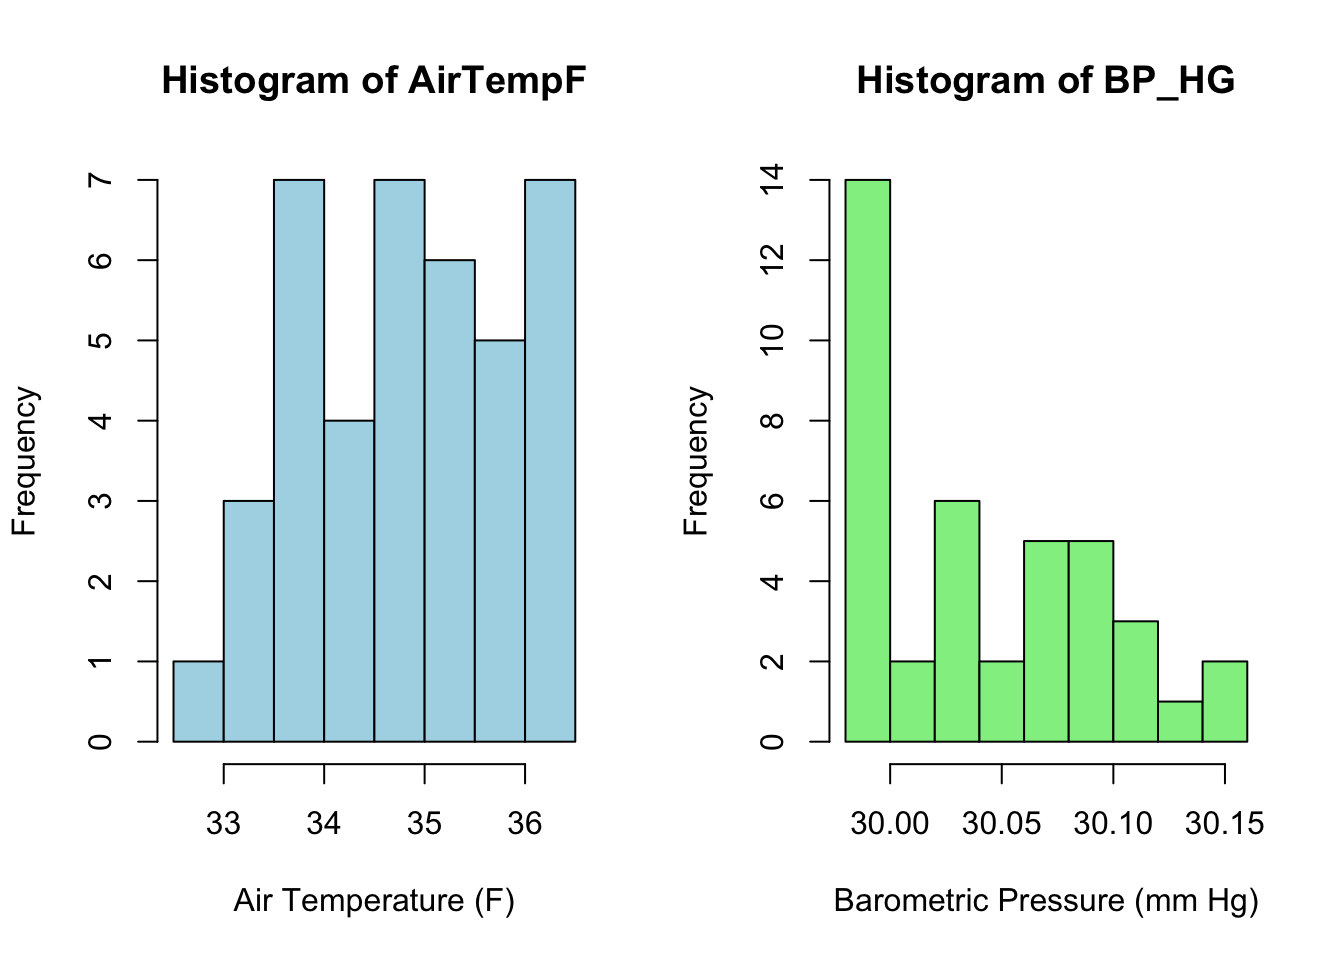
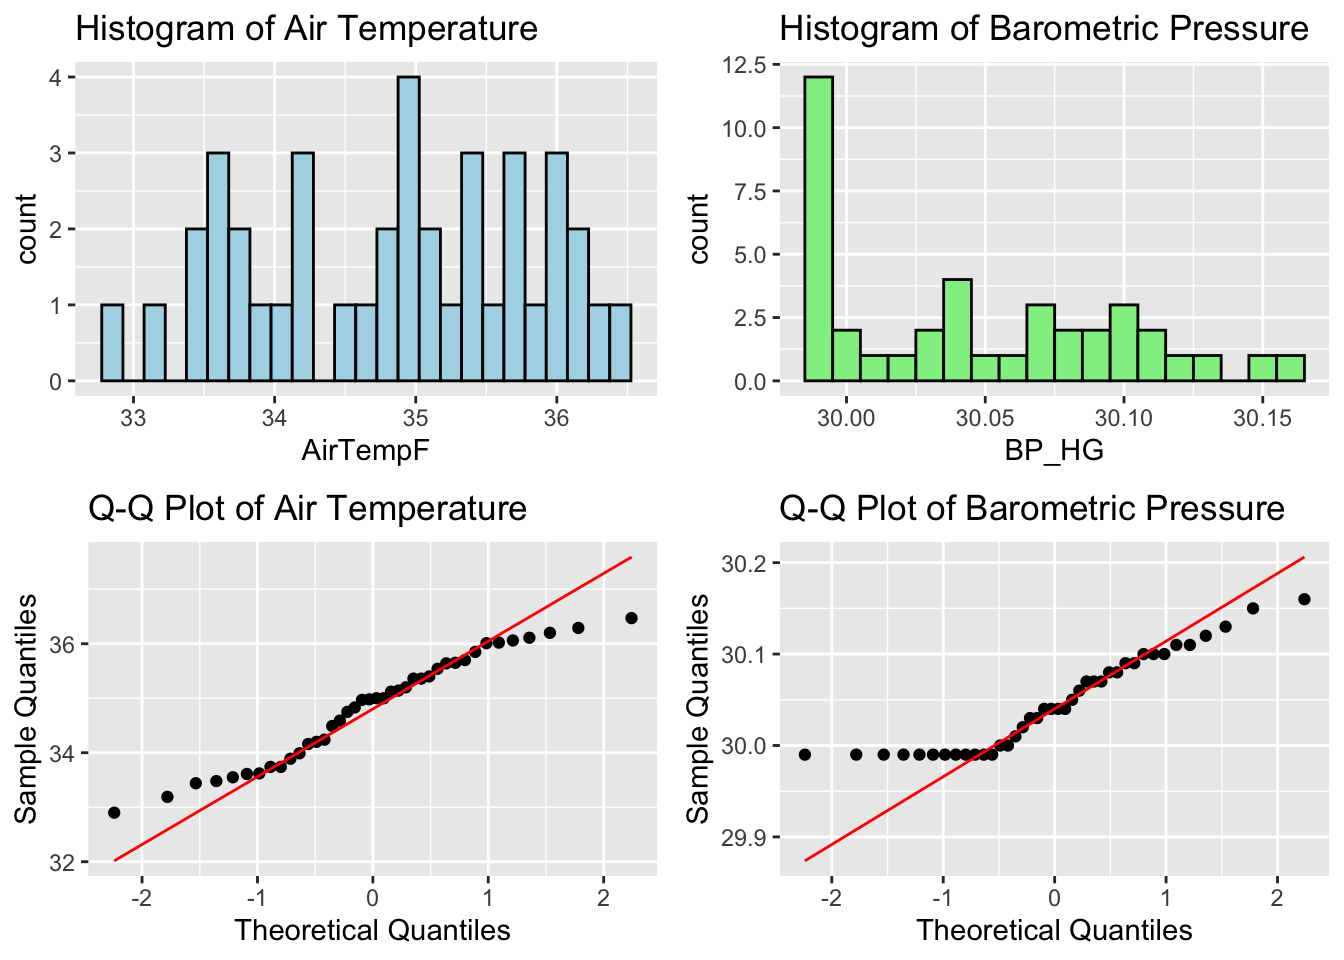
updated graph display corr

diff --git a/docs/Correlation_Assignment.html b/docs/Correlation_Assignment.html
@@ -206,9 +206,30 @@ sample estimates:
 6     33.4  30.0</code></pre>
 </div>
 <div class="sourceCode cell-code" id="cb8"><pre class="sourceCode r code-with-copy"><code class="sourceCode r"><span id="cb8-1"><a href="#cb8-1" aria-hidden="true" tabindex="-1"></a><span class="co"># Histograms for both variables</span></span>
-<span id="cb8-2"><a href="#cb8-2" aria-hidden="true" tabindex="-1"></a><span class="fu">par</span>(<span class="at">mfrow =</span> <span class="fu">c</span>(<span class="dv">1</span>, <span class="dv">2</span>))  <span class="co"># Set up a 1x2 plot grid</span></span>
-<span id="cb8-3"><a href="#cb8-3" aria-hidden="true" tabindex="-1"></a><span class="fu">hist</span>(rice_subset<span class="sc">$</span>AirTempF, <span class="at">main =</span> <span class="st">"Histogram of AirTempF"</span>, <span class="at">xlab =</span> <span class="st">"Air Temperature (F)"</span>, <span class="at">col =</span> <span class="st">"lightblue"</span>, <span class="at">border =</span> <span class="st">"black"</span>)</span>
-<span id="cb8-4"><a href="#cb8-4" aria-hidden="true" tabindex="-1"></a><span class="fu">hist</span>(rice_subset<span class="sc">$</span>BP_HG, <span class="at">main =</span> <span class="st">"Histogram of BP_HG"</span>, <span class="at">xlab =</span> <span class="st">"Barometric Pressure (mm Hg)"</span>, <span class="at">col =</span> <span class="st">"lightgreen"</span>, <span class="at">border =</span> <span class="st">"black"</span>)</span></code><button title="Copy to Clipboard" class="code-copy-button"><i class="bi"></i></button></pre></div>
+<span id="cb8-2"><a href="#cb8-2" aria-hidden="true" tabindex="-1"></a></span>
+<span id="cb8-3"><a href="#cb8-3" aria-hidden="true" tabindex="-1"></a>h1 <span class="ot">&lt;-</span> <span class="fu">ggplot</span>(rice_subset, <span class="fu">aes</span>(<span class="at">x =</span> AirTempF)) <span class="sc">+</span> </span>
+<span id="cb8-4"><a href="#cb8-4" aria-hidden="true" tabindex="-1"></a>  <span class="fu">geom_histogram</span>(<span class="at">binwidth =</span> <span class="fl">0.15</span>, <span class="at">fill =</span> <span class="st">"lightblue"</span>, <span class="at">color =</span> <span class="st">"black"</span>) <span class="sc">+</span></span>
+<span id="cb8-5"><a href="#cb8-5" aria-hidden="true" tabindex="-1"></a>  <span class="fu">ggtitle</span>(<span class="st">"Histogram of Air Temperature"</span>)</span>
+<span id="cb8-6"><a href="#cb8-6" aria-hidden="true" tabindex="-1"></a></span>
+<span id="cb8-7"><a href="#cb8-7" aria-hidden="true" tabindex="-1"></a>h2 <span class="ot">&lt;-</span> <span class="fu">ggplot</span>(rice_subset, <span class="fu">aes</span>(<span class="at">x =</span> BP_HG)) <span class="sc">+</span> </span>
+<span id="cb8-8"><a href="#cb8-8" aria-hidden="true" tabindex="-1"></a>  <span class="fu">geom_histogram</span>(<span class="at">binwidth =</span> <span class="fl">0.01</span>, <span class="at">fill =</span> <span class="st">"lightgreen"</span>, <span class="at">color =</span> <span class="st">"black"</span>) <span class="sc">+</span></span>
+<span id="cb8-9"><a href="#cb8-9" aria-hidden="true" tabindex="-1"></a>  <span class="fu">ggtitle</span>(<span class="st">"Histogram of Barometric Pressure"</span>)</span>
+<span id="cb8-10"><a href="#cb8-10" aria-hidden="true" tabindex="-1"></a></span>
+<span id="cb8-11"><a href="#cb8-11" aria-hidden="true" tabindex="-1"></a><span class="co"># Q-Q plot for AirTempF</span></span>
+<span id="cb8-12"><a href="#cb8-12" aria-hidden="true" tabindex="-1"></a>qq1 <span class="ot">&lt;-</span> <span class="fu">ggplot</span>(rice_subset, <span class="fu">aes</span>(<span class="at">sample =</span> AirTempF)) <span class="sc">+</span> </span>
+<span id="cb8-13"><a href="#cb8-13" aria-hidden="true" tabindex="-1"></a>  <span class="fu">stat_qq</span>() <span class="sc">+</span> </span>
+<span id="cb8-14"><a href="#cb8-14" aria-hidden="true" tabindex="-1"></a>  <span class="fu">stat_qq_line</span>(<span class="at">color =</span> <span class="st">"red"</span>) <span class="sc">+</span></span>
+<span id="cb8-15"><a href="#cb8-15" aria-hidden="true" tabindex="-1"></a>  <span class="fu">ggtitle</span>(<span class="st">"Q-Q Plot of Air Temperature"</span>) <span class="sc">+</span></span>
+<span id="cb8-16"><a href="#cb8-16" aria-hidden="true" tabindex="-1"></a>  <span class="fu">labs</span>(<span class="at">x =</span> <span class="st">"Theoretical Quantiles"</span>, <span class="at">y =</span> <span class="st">"Sample Quantiles"</span>)</span>
+<span id="cb8-17"><a href="#cb8-17" aria-hidden="true" tabindex="-1"></a></span>
+<span id="cb8-18"><a href="#cb8-18" aria-hidden="true" tabindex="-1"></a><span class="co"># Q-Q plot for BP_HG</span></span>
+<span id="cb8-19"><a href="#cb8-19" aria-hidden="true" tabindex="-1"></a>qq2 <span class="ot">&lt;-</span> <span class="fu">ggplot</span>(rice_subset, <span class="fu">aes</span>(<span class="at">sample =</span> BP_HG)) <span class="sc">+</span> </span>
+<span id="cb8-20"><a href="#cb8-20" aria-hidden="true" tabindex="-1"></a>  <span class="fu">stat_qq</span>() <span class="sc">+</span> </span>
+<span id="cb8-21"><a href="#cb8-21" aria-hidden="true" tabindex="-1"></a>  <span class="fu">stat_qq_line</span>(<span class="at">color =</span> <span class="st">"red"</span>) <span class="sc">+</span></span>
+<span id="cb8-22"><a href="#cb8-22" aria-hidden="true" tabindex="-1"></a>  <span class="fu">ggtitle</span>(<span class="st">"Q-Q Plot of Barometric Pressure"</span>) <span class="sc">+</span></span>
+<span id="cb8-23"><a href="#cb8-23" aria-hidden="true" tabindex="-1"></a>  <span class="fu">labs</span>(<span class="at">x =</span> <span class="st">"Theoretical Quantiles"</span>, <span class="at">y =</span> <span class="st">"Sample Quantiles"</span>)</span>
+<span id="cb8-24"><a href="#cb8-24" aria-hidden="true" tabindex="-1"></a></span>
+<span id="cb8-25"><a href="#cb8-25" aria-hidden="true" tabindex="-1"></a>gridExtra<span class="sc">::</span><span class="fu">grid.arrange</span>(h1, h2, qq1, qq2, <span class="at">ncol =</span> <span class="dv">2</span>)</span></code><button title="Copy to Clipboard" class="code-copy-button"><i class="bi"></i></button></pre></div>
 <div class="cell-output-display">
 <div>
 <figure class="figure">
@@ -216,29 +237,12 @@ sample estimates:
 </figure>
 </div>
 </div>
-<div class="sourceCode cell-code" id="cb9"><pre class="sourceCode r code-with-copy"><code class="sourceCode r"><span id="cb9-1"><a href="#cb9-1" aria-hidden="true" tabindex="-1"></a><span class="co"># Set up a 1x2 plot grid again for Q-Q plots</span></span>
-<span id="cb9-2"><a href="#cb9-2" aria-hidden="true" tabindex="-1"></a><span class="fu">par</span>(<span class="at">mfrow =</span> <span class="fu">c</span>(<span class="dv">1</span>, <span class="dv">2</span>))</span>
-<span id="cb9-3"><a href="#cb9-3" aria-hidden="true" tabindex="-1"></a></span>
-<span id="cb9-4"><a href="#cb9-4" aria-hidden="true" tabindex="-1"></a><span class="co"># Q-Q plot for AirTempF</span></span>
-<span id="cb9-5"><a href="#cb9-5" aria-hidden="true" tabindex="-1"></a><span class="fu">qqnorm</span>(rice_subset<span class="sc">$</span>AirTempF, <span class="at">main =</span> <span class="st">"Q-Q Plot of AirTempF"</span>)</span>
-<span id="cb9-6"><a href="#cb9-6" aria-hidden="true" tabindex="-1"></a><span class="fu">qqline</span>(rice_subset<span class="sc">$</span>AirTempF, <span class="at">col =</span> <span class="st">"red"</span>)</span>
-<span id="cb9-7"><a href="#cb9-7" aria-hidden="true" tabindex="-1"></a></span>
-<span id="cb9-8"><a href="#cb9-8" aria-hidden="true" tabindex="-1"></a><span class="co"># Q-Q plot for BP_HG</span></span>
-<span id="cb9-9"><a href="#cb9-9" aria-hidden="true" tabindex="-1"></a><span class="fu">qqnorm</span>(rice_subset<span class="sc">$</span>BP_HG, <span class="at">main =</span> <span class="st">"Q-Q Plot of BP_HG"</span>)</span>
-<span id="cb9-10"><a href="#cb9-10" aria-hidden="true" tabindex="-1"></a><span class="fu">qqline</span>(rice_subset<span class="sc">$</span>BP_HG, <span class="at">col =</span> <span class="st">"red"</span>)</span></code><button title="Copy to Clipboard" class="code-copy-button"><i class="bi"></i></button></pre></div>
-<div class="cell-output-display">
-<div>
-<figure class="figure">
-<p><img src="Correlation_Assignment_files/figure-html/unnamed-chunk-3-2.png" class="img-fluid figure-img" width="672"></p>
-</figure>
-</div>
-</div>
-<div class="sourceCode cell-code" id="cb10"><pre class="sourceCode r code-with-copy"><code class="sourceCode r"><span id="cb10-1"><a href="#cb10-1" aria-hidden="true" tabindex="-1"></a><span class="co"># Perform the Shapiro-Wilk normality test for both variables</span></span>
-<span id="cb10-2"><a href="#cb10-2" aria-hidden="true" tabindex="-1"></a>shapiro_airtemp <span class="ot">&lt;-</span> <span class="fu">shapiro.test</span>(rice_subset<span class="sc">$</span>AirTempF)</span>
-<span id="cb10-3"><a href="#cb10-3" aria-hidden="true" tabindex="-1"></a>shapiro_bp_hg <span class="ot">&lt;-</span> <span class="fu">shapiro.test</span>(rice_subset<span class="sc">$</span>BP_HG)</span>
-<span id="cb10-4"><a href="#cb10-4" aria-hidden="true" tabindex="-1"></a></span>
-<span id="cb10-5"><a href="#cb10-5" aria-hidden="true" tabindex="-1"></a><span class="co"># Print the test results</span></span>
-<span id="cb10-6"><a href="#cb10-6" aria-hidden="true" tabindex="-1"></a><span class="fu">print</span>(shapiro_airtemp)</span></code><button title="Copy to Clipboard" class="code-copy-button"><i class="bi"></i></button></pre></div>
+<div class="sourceCode cell-code" id="cb9"><pre class="sourceCode r code-with-copy"><code class="sourceCode r"><span id="cb9-1"><a href="#cb9-1" aria-hidden="true" tabindex="-1"></a><span class="co"># Perform the Shapiro-Wilk normality test for both variables</span></span>
+<span id="cb9-2"><a href="#cb9-2" aria-hidden="true" tabindex="-1"></a>shapiro_airtemp <span class="ot">&lt;-</span> <span class="fu">shapiro.test</span>(rice_subset<span class="sc">$</span>AirTempF)</span>
+<span id="cb9-3"><a href="#cb9-3" aria-hidden="true" tabindex="-1"></a>shapiro_bp_hg <span class="ot">&lt;-</span> <span class="fu">shapiro.test</span>(rice_subset<span class="sc">$</span>BP_HG)</span>
+<span id="cb9-4"><a href="#cb9-4" aria-hidden="true" tabindex="-1"></a></span>
+<span id="cb9-5"><a href="#cb9-5" aria-hidden="true" tabindex="-1"></a><span class="co"># Print the test results</span></span>
+<span id="cb9-6"><a href="#cb9-6" aria-hidden="true" tabindex="-1"></a><span class="fu">print</span>(shapiro_airtemp)</span></code><button title="Copy to Clipboard" class="code-copy-button"><i class="bi"></i></button></pre></div>
 <div class="cell-output cell-output-stdout">
 <pre><code>
     Shapiro-Wilk normality test
@@ -246,7 +250,7 @@ sample estimates:
 data:  rice_subset$AirTempF
 W = 0.95783, p-value = 0.1411</code></pre>
 </div>
-<div class="sourceCode cell-code" id="cb12"><pre class="sourceCode r code-with-copy"><code class="sourceCode r"><span id="cb12-1"><a href="#cb12-1" aria-hidden="true" tabindex="-1"></a><span class="fu">print</span>(shapiro_bp_hg)</span></code><button title="Copy to Clipboard" class="code-copy-button"><i class="bi"></i></button></pre></div>
+<div class="sourceCode cell-code" id="cb11"><pre class="sourceCode r code-with-copy"><code class="sourceCode r"><span id="cb11-1"><a href="#cb11-1" aria-hidden="true" tabindex="-1"></a><span class="fu">print</span>(shapiro_bp_hg)</span></code><button title="Copy to Clipboard" class="code-copy-button"><i class="bi"></i></button></pre></div>
 <div class="cell-output cell-output-stdout">
 <pre><code>
     Shapiro-Wilk normality test
@@ -272,29 +276,29 @@ W = 0.89606, p-value = 0.001471</code></pre>
 <section id="using-a-permutation-approach-define-the-distribution-of-correlation-values-between-the-variables-in-3-assuming-that-the-null-hypothesis-is-true.-plot-these-as-a-histogram-and-include-the-observed-correlation." class="level4">
 <h4 class="anchored" data-anchor-id="using-a-permutation-approach-define-the-distribution-of-correlation-values-between-the-variables-in-3-assuming-that-the-null-hypothesis-is-true.-plot-these-as-a-histogram-and-include-the-observed-correlation.">Using a permutation approach, define the distribution of correlation values between the variables in #3, assuming that the NULL hypothesis is true. Plot these as a histogram and include the observed correlation. &nbsp;</h4>
 <div class="cell">
-<div class="sourceCode cell-code" id="cb14"><pre class="sourceCode r code-with-copy"><code class="sourceCode r"><span id="cb14-1"><a href="#cb14-1" aria-hidden="true" tabindex="-1"></a><span class="co"># Define variables</span></span>
-<span id="cb14-2"><a href="#cb14-2" aria-hidden="true" tabindex="-1"></a>x <span class="ot">&lt;-</span> rice_subset<span class="sc">$</span>AirTempF</span>
-<span id="cb14-3"><a href="#cb14-3" aria-hidden="true" tabindex="-1"></a>y <span class="ot">&lt;-</span> rice_subset<span class="sc">$</span>BP_HG</span>
-<span id="cb14-4"><a href="#cb14-4" aria-hidden="true" tabindex="-1"></a></span>
-<span id="cb14-5"><a href="#cb14-5" aria-hidden="true" tabindex="-1"></a><span class="co"># Observed correlation</span></span>
-<span id="cb14-6"><a href="#cb14-6" aria-hidden="true" tabindex="-1"></a>observed_correlation <span class="ot">&lt;-</span> <span class="fu">cor</span>(x, y, <span class="at">method =</span> <span class="st">"spearman"</span>)</span>
-<span id="cb14-7"><a href="#cb14-7" aria-hidden="true" tabindex="-1"></a></span>
-<span id="cb14-8"><a href="#cb14-8" aria-hidden="true" tabindex="-1"></a><span class="co"># Permutation test</span></span>
-<span id="cb14-9"><a href="#cb14-9" aria-hidden="true" tabindex="-1"></a>n_permutations <span class="ot">&lt;-</span> <span class="dv">1000</span></span>
-<span id="cb14-10"><a href="#cb14-10" aria-hidden="true" tabindex="-1"></a>permuted_correlations <span class="ot">&lt;-</span> <span class="fu">numeric</span>(n_permutations)</span>
-<span id="cb14-11"><a href="#cb14-11" aria-hidden="true" tabindex="-1"></a></span>
-<span id="cb14-12"><a href="#cb14-12" aria-hidden="true" tabindex="-1"></a><span class="cf">for</span> (i <span class="cf">in</span> <span class="dv">1</span><span class="sc">:</span>n_permutations) {</span>
-<span id="cb14-13"><a href="#cb14-13" aria-hidden="true" tabindex="-1"></a>  shuffled_y <span class="ot">&lt;-</span> <span class="fu">sample</span>(y)  <span class="co"># Randomly shuffle BP_HG</span></span>
-<span id="cb14-14"><a href="#cb14-14" aria-hidden="true" tabindex="-1"></a>  permuted_correlations[i] <span class="ot">&lt;-</span> <span class="fu">cor</span>(x, shuffled_y, <span class="at">method =</span> <span class="st">"spearman"</span>)</span>
-<span id="cb14-15"><a href="#cb14-15" aria-hidden="true" tabindex="-1"></a>}</span>
-<span id="cb14-16"><a href="#cb14-16" aria-hidden="true" tabindex="-1"></a></span>
-<span id="cb14-17"><a href="#cb14-17" aria-hidden="true" tabindex="-1"></a><span class="co"># Plot histogram</span></span>
-<span id="cb14-18"><a href="#cb14-18" aria-hidden="true" tabindex="-1"></a><span class="fu">hist</span>(permuted_correlations, <span class="at">breaks =</span> <span class="dv">30</span>, <span class="at">main =</span> <span class="st">"Permutation Distribution of Correlations"</span>,</span>
-<span id="cb14-19"><a href="#cb14-19" aria-hidden="true" tabindex="-1"></a>     <span class="at">xlab =</span> <span class="st">"Correlation"</span>, <span class="at">col =</span> <span class="st">"lightblue"</span>, <span class="at">border =</span> <span class="st">"black"</span>)</span>
-<span id="cb14-20"><a href="#cb14-20" aria-hidden="true" tabindex="-1"></a><span class="fu">abline</span>(<span class="at">v =</span> observed_correlation, <span class="at">col =</span> <span class="st">"red"</span>, <span class="at">lwd =</span> <span class="dv">2</span>, <span class="at">lty =</span> <span class="dv">2</span>)</span>
-<span id="cb14-21"><a href="#cb14-21" aria-hidden="true" tabindex="-1"></a></span>
-<span id="cb14-22"><a href="#cb14-22" aria-hidden="true" tabindex="-1"></a><span class="co"># Add legend</span></span>
-<span id="cb14-23"><a href="#cb14-23" aria-hidden="true" tabindex="-1"></a><span class="fu">legend</span>(<span class="st">"topright"</span>, <span class="at">legend =</span> <span class="fu">c</span>(<span class="st">"Observed Correlation"</span>), <span class="at">col =</span> <span class="st">"red"</span>, <span class="at">lty =</span> <span class="dv">2</span>, <span class="at">lwd =</span> <span class="dv">2</span>)</span></code><button title="Copy to Clipboard" class="code-copy-button"><i class="bi"></i></button></pre></div>
+<div class="sourceCode cell-code" id="cb13"><pre class="sourceCode r code-with-copy"><code class="sourceCode r"><span id="cb13-1"><a href="#cb13-1" aria-hidden="true" tabindex="-1"></a><span class="co"># Define variables</span></span>
+<span id="cb13-2"><a href="#cb13-2" aria-hidden="true" tabindex="-1"></a>x <span class="ot">&lt;-</span> rice_subset<span class="sc">$</span>AirTempF</span>
+<span id="cb13-3"><a href="#cb13-3" aria-hidden="true" tabindex="-1"></a>y <span class="ot">&lt;-</span> rice_subset<span class="sc">$</span>BP_HG</span>
+<span id="cb13-4"><a href="#cb13-4" aria-hidden="true" tabindex="-1"></a></span>
+<span id="cb13-5"><a href="#cb13-5" aria-hidden="true" tabindex="-1"></a><span class="co"># Observed correlation</span></span>
+<span id="cb13-6"><a href="#cb13-6" aria-hidden="true" tabindex="-1"></a>observed_correlation <span class="ot">&lt;-</span> <span class="fu">cor</span>(x, y, <span class="at">method =</span> <span class="st">"spearman"</span>)</span>
+<span id="cb13-7"><a href="#cb13-7" aria-hidden="true" tabindex="-1"></a></span>
+<span id="cb13-8"><a href="#cb13-8" aria-hidden="true" tabindex="-1"></a><span class="co"># Permutation test</span></span>
+<span id="cb13-9"><a href="#cb13-9" aria-hidden="true" tabindex="-1"></a>n_permutations <span class="ot">&lt;-</span> <span class="dv">1000</span></span>
+<span id="cb13-10"><a href="#cb13-10" aria-hidden="true" tabindex="-1"></a>permuted_correlations <span class="ot">&lt;-</span> <span class="fu">numeric</span>(n_permutations)</span>
+<span id="cb13-11"><a href="#cb13-11" aria-hidden="true" tabindex="-1"></a></span>
+<span id="cb13-12"><a href="#cb13-12" aria-hidden="true" tabindex="-1"></a><span class="cf">for</span> (i <span class="cf">in</span> <span class="dv">1</span><span class="sc">:</span>n_permutations) {</span>
+<span id="cb13-13"><a href="#cb13-13" aria-hidden="true" tabindex="-1"></a>  shuffled_y <span class="ot">&lt;-</span> <span class="fu">sample</span>(y)  <span class="co"># Randomly shuffle BP_HG</span></span>
+<span id="cb13-14"><a href="#cb13-14" aria-hidden="true" tabindex="-1"></a>  permuted_correlations[i] <span class="ot">&lt;-</span> <span class="fu">cor</span>(x, shuffled_y, <span class="at">method =</span> <span class="st">"spearman"</span>)</span>
+<span id="cb13-15"><a href="#cb13-15" aria-hidden="true" tabindex="-1"></a>}</span>
+<span id="cb13-16"><a href="#cb13-16" aria-hidden="true" tabindex="-1"></a></span>
+<span id="cb13-17"><a href="#cb13-17" aria-hidden="true" tabindex="-1"></a><span class="co"># Plot histogram</span></span>
+<span id="cb13-18"><a href="#cb13-18" aria-hidden="true" tabindex="-1"></a><span class="fu">hist</span>(permuted_correlations, <span class="at">breaks =</span> <span class="dv">30</span>, <span class="at">main =</span> <span class="st">"Permutation Distribution of Correlations"</span>,</span>
+<span id="cb13-19"><a href="#cb13-19" aria-hidden="true" tabindex="-1"></a>     <span class="at">xlab =</span> <span class="st">"Correlation"</span>, <span class="at">col =</span> <span class="st">"lightblue"</span>, <span class="at">border =</span> <span class="st">"black"</span>)</span>
+<span id="cb13-20"><a href="#cb13-20" aria-hidden="true" tabindex="-1"></a><span class="fu">abline</span>(<span class="at">v =</span> observed_correlation, <span class="at">col =</span> <span class="st">"red"</span>, <span class="at">lwd =</span> <span class="dv">2</span>, <span class="at">lty =</span> <span class="dv">2</span>)</span>
+<span id="cb13-21"><a href="#cb13-21" aria-hidden="true" tabindex="-1"></a></span>
+<span id="cb13-22"><a href="#cb13-22" aria-hidden="true" tabindex="-1"></a><span class="co"># Add legend</span></span>
+<span id="cb13-23"><a href="#cb13-23" aria-hidden="true" tabindex="-1"></a><span class="fu">legend</span>(<span class="st">"topright"</span>, <span class="at">legend =</span> <span class="fu">c</span>(<span class="st">"Observed Correlation"</span>), <span class="at">col =</span> <span class="st">"red"</span>, <span class="at">lty =</span> <span class="dv">2</span>, <span class="at">lwd =</span> <span class="dv">2</span>)</span></code><button title="Copy to Clipboard" class="code-copy-button"><i class="bi"></i></button></pre></div>
 <div class="cell-output-display">
 <div>
 <figure class="figure">
@@ -302,7 +306,7 @@ W = 0.89606, p-value = 0.001471</code></pre>
 </figure>
 </div>
 </div>
-<div class="sourceCode cell-code" id="cb15"><pre class="sourceCode r code-with-copy"><code class="sourceCode r"><span id="cb15-1"><a href="#cb15-1" aria-hidden="true" tabindex="-1"></a><span class="fu">print</span>(<span class="fu">paste</span>(<span class="st">"Observed Spearman correlation: "</span>, <span class="fu">round</span>(observed_correlation, <span class="dv">3</span>)))</span></code><button title="Copy to Clipboard" class="code-copy-button"><i class="bi"></i></button></pre></div>
+<div class="sourceCode cell-code" id="cb14"><pre class="sourceCode r code-with-copy"><code class="sourceCode r"><span id="cb14-1"><a href="#cb14-1" aria-hidden="true" tabindex="-1"></a><span class="fu">print</span>(<span class="fu">paste</span>(<span class="st">"Observed Spearman correlation: "</span>, <span class="fu">round</span>(observed_correlation, <span class="dv">3</span>)))</span></code><button title="Copy to Clipboard" class="code-copy-button"><i class="bi"></i></button></pre></div>
 <div class="cell-output cell-output-stdout">
 <pre><code>[1] "Observed Spearman correlation:  -0.29"</code></pre>
 </div>
